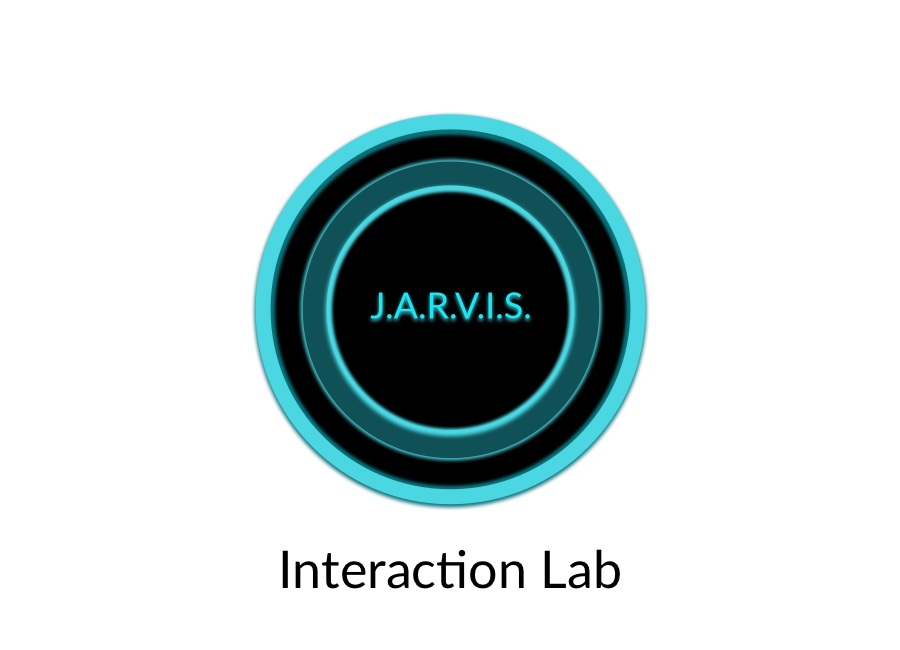
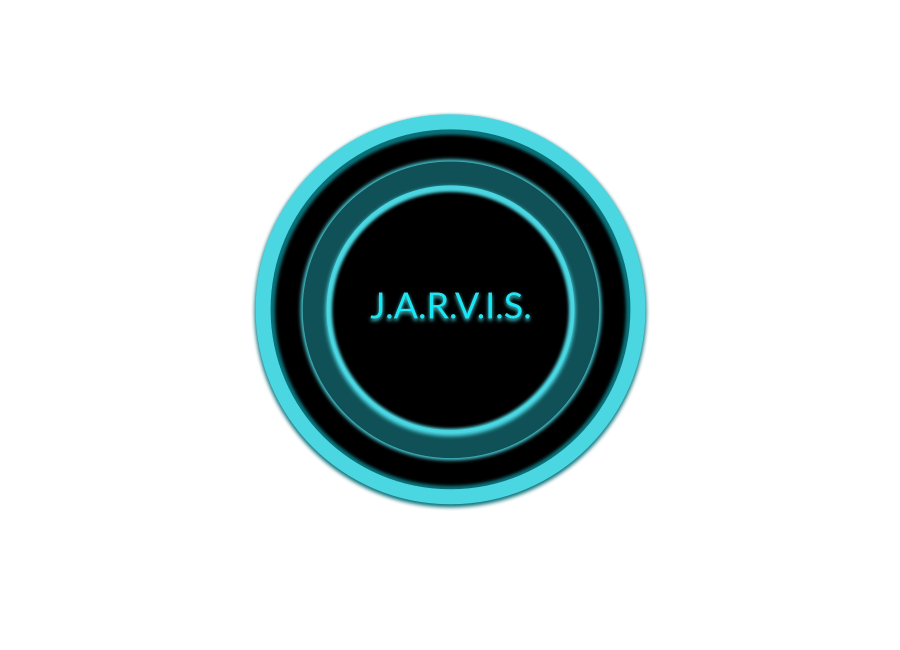
removing project titles

Changed region(s): [[0.3111, 0.8308, 0.7156, 0.9231]]

diff --git a/css/main.min.css b/css/main.min.css
@@ -1,5 +1,5 @@
 /*!
  * Start Bootstrap - Freelancer v3.3.7+1 (http://startbootstrap.com/template-overviews/freelancer)
- * Copyright 2013-2016 Start Bootstrap
+ * Copyright 2013-2017 Start Bootstrap
  * Licensed under MIT (https://github.com/BlackrockDigital/startbootstrap/blob/gh-pages/LICENSE)
- */.navbar-custom,.navbar-custom .navbar-nav li a:active,header{background:#fff}@font-face{font-family:Montserrat;font-style:normal;font-weight:400;src:local('Montserrat-Regular'),url(http://fonts.gstatic.com/s/montserrat/v7/zhcz-_WihjSQC0oHJ9TCYC3USBnSvpkopQaUR-2r7iU.ttf) format('truetype')}@font-face{font-family:Montserrat;font-style:normal;font-weight:700;src:local('Montserrat-Bold'),url(http://fonts.gstatic.com/s/montserrat/v7/IQHow_FEYlDC4Gzy_m8fcvEr6Hm6RMS0v1dtXsGir4g.ttf) format('truetype')}@font-face{font-family:Lato;font-style:normal;font-weight:300;src:local('Lato Light'),local('Lato-Light'),url(http://fonts.gstatic.com/s/lato/v11/nj47mAZe0mYUIySgfn0wpQ.ttf) format('truetype')}@font-face{font-family:Lato;font-style:normal;font-weight:400;src:local('Lato Regular'),local('Lato-Regular'),url(http://fonts.gstatic.com/s/lato/v11/v0SdcGFAl2aezM9Vq_aFTQ.ttf) format('truetype')}@font-face{font-family:Lato;font-style:normal;font-weight:700;src:local('Lato Bold'),local('Lato-Bold'),url(http://fonts.gstatic.com/s/lato/v11/DvlFBScY1r-FMtZSYIYoYw.ttf) format('truetype')}body{font-family:Lato,'Helvetica Neue',Helvetica,Arial,sans-serif;overflow-x:hidden;font-size:18px}.navbar-custom,.project-title,.section-title,header .intro-text .name{font-family:Lato,"Helvetica Neue",Helvetica,Arial,sans-serif}a,a.active,a:active,a:focus,a:hover{color:#fff;outline:0}.img-centered{margin:0 auto}header{text-align:center;color:#fff}.navbar-custom .navbar-brand,.navbar-custom .navbar-brand.active,.navbar-custom .navbar-brand:active,.navbar-custom .navbar-brand:focus,.navbar-custom .navbar-brand:hover,.navbar-custom .navbar-nav li a,.navbar-custom .navbar-nav li a:focus{color:#ff4c31}header .container{padding-top:100px;padding-bottom:50px}header img{display:block;margin:0 auto 20px}header .intro-text .name{display:block;text-transform:uppercase;font-weight:700;font-size:2em}header .intro-text .skills{font-size:1.25em;font-weight:300}@media (min-width:768px){header .container{padding-top:200px;padding-bottom:100px}header .intro-text .name{font-size:4.75em}header .intro-text .skills{font-size:1.75em}}nav{border-bottom:1px solid #777}.navbar-custom a:focus{outline:0}.navbar-custom .navbar-brand{font-size:2.25em;font-weight:300}.navbar-custom .navbar-nav{letter-spacing:1px}.navbar-custom .navbar-nav li a:hover{color:#ff4c31;outline:0}.navbar-custom .navbar-nav li.active a{color:#fff;background:#ff4c31;-webkit-border-radius:6px;-moz-border-radius:6px;border-radius:6px}.navbar-custom .navbar-nav li.active a:active,.navbar-custom .navbar-nav li.active a:focus,.navbar-custom .navbar-nav li.active a:hover{color:#fff;background:#ff4c31}.navbar-custom .navbar-toggle{color:#fff;font-size:10px;border-color:#fff}.navbar-custom .navbar-toggle:focus,.navbar-custom .navbar-toggle:hover{background-color:#fff;color:#fff;border-color:#fff}@media (min-width:768px){.navbar-custom{padding:25px 0;-webkit-transition:padding .3s;-moz-transition:padding .3s;transition:padding .3s}.navbar-custom .navbar-brand{font-size:2.25em;-webkit-transition:all .3s;-moz-transition:all .3s;transition:all .3s}.navbar-custom.affix{padding:10px 0}.navbar-custom.affix .navbar-brand{font-size:1.5em}}section#about{padding:100px 0}section{padding-bottom:50px}section.success{background:#fff;color:#fff}@media (max-width:767px){section{padding:75px 0}section.first{padding-top:75px}}#portfolio .portfolio-item{margin:0 0 15px;right:0}#portfolio .portfolio-item .portfolio-link{display:block;position:relative;max-width:400px;margin:0 auto}#portfolio .portfolio-item .portfolio-link .caption{background:rgba(255,76,49,.92);position:absolute;border-radius:6px;width:100%;height:100%;opacity:0;transition:all ease .5s;-webkit-transition:all ease .5s;-moz-transition:all ease .5s}#portfolio .portfolio-item .portfolio-link .caption:hover{opacity:1}#portfolio .portfolio-item .portfolio-link .caption .caption-content{position:absolute;width:100%;height:20px;font-size:20px;text-align:center;margin-top:-12px;color:#fff}.btn-social,.scroll-top,.scroll-top .btn{width:50px;height:50px}#portfolio .portfolio-item .portfolio-link .caption .caption-content i{margin-top:-12px}#portfolio .portfolio-item .portfolio-link .caption .caption-content h3,#portfolio .portfolio-item .portfolio-link .caption .caption-content h4{margin:0}#portfolio .portfolio-item .portfolio-link .caption .caption-content-1-line{top:50%}#portfolio .portfolio-item .portfolio-link .caption .caption-content-2-line{top:40%}#portfolio .portfolio-item .portfolio-link .caption .caption-content-3-line{top:30%}#portfolio *{z-index:2}@media (min-width:767px){#portfolio .portfolio-item{margin:0 0 30px}}footer{color:#ff4c31;border-top:1px solid #e7e7e7}footer h3{margin-bottom:30px}footer .footer-above{padding-top:50px}footer .footer-col{margin-bottom:50px}footer .footer-below{padding:25px 0}.btn-outline{color:#747274;font-size:20px;border:2px solid #fff;background:0 0;transition:all .3s ease-in-out;margin-top:15px}.btn-outline.active,.btn-outline:active,.btn-outline:focus,.btn-outline:hover{color:#fff;background:#ff4c31;border:2px solid #ff4c31}.btn-primary.active,.btn-primary:active,.btn-success.active,.btn-success:active,.open .dropdown-toggle.btn-primary,.open .dropdown-toggle.btn-success{background-image:none}.btn-primary{color:#fff;background-color:#fff;border-color:#fff;font-weight:700}.btn-primary.active,.btn-primary:active,.btn-primary:focus,.btn-primary:hover,.open .dropdown-toggle.btn-primary{color:#fff;background-color:#e6e6e6;border-color:#e0e0e0}.btn-primary.disabled,.btn-primary.disabled.active,.btn-primary.disabled:active,.btn-primary.disabled:focus,.btn-primary.disabled:hover,.btn-primary[disabled],.btn-primary[disabled].active,.btn-primary[disabled]:active,.btn-primary[disabled]:focus,.btn-primary[disabled]:hover,.btn-success,fieldset[disabled] .btn-primary,fieldset[disabled] .btn-primary.active,fieldset[disabled] .btn-primary:active,fieldset[disabled] .btn-primary:focus,fieldset[disabled] .btn-primary:hover{background-color:#fff;border-color:#fff}.btn-primary .badge{color:#fff;background-color:#fff}.btn-success{color:#fff;font-weight:700}.btn-success.active,.btn-success:active,.btn-success:focus,.btn-success:hover,.open .dropdown-toggle.btn-success{color:#fff;background-color:#e6e6e6;border-color:#e0e0e0}.btn-success .badge,.img-project,.parallax{background-color:#fff}.btn-success.disabled,.btn-success.disabled.active,.btn-success.disabled:active,.btn-success.disabled:focus,.btn-success.disabled:hover,.btn-success[disabled],.btn-success[disabled].active,.btn-success[disabled]:active,.btn-success[disabled]:focus,.btn-success[disabled]:hover,fieldset[disabled] .btn-success,fieldset[disabled] .btn-success.active,fieldset[disabled] .btn-success:active,fieldset[disabled] .btn-success:focus,fieldset[disabled] .btn-success:hover{background-color:#fff;border-color:#fff}.btn-success .badge{color:#fff}.btn-social{display:table-cell;border:2px solid #747274;border-radius:100%;text-align:center;font-size:20px;line-height:45px}.portfolio-modal .modal-content h3,.portfolio-modal .modal-content h4,.portfolio-modal .modal-content h5,.portfolio-modal .modal-content h6,.portfolio-modal .modal-content li,.portfolio-modal .modal-content p,.portfolio-modal .modal-content strong{text-align:left}.btn.active,.btn:active,.btn:focus{outline:0}.scroll-top{position:fixed;right:2%;bottom:2%;z-index:1049}.scroll-top .btn{font-size:20px;border-radius:100%;line-height:28px}.scroll-top .btn:focus{outline:0}.portfolio-modal .modal-content{border-radius:0;background-clip:border-box;-webkit-box-shadow:none;box-shadow:none;border:none;min-height:100%;padding:20px 0}.portfolio-modal .modal-content h2{margin:0;font-size:3em}.portfolio-modal .modal-content h3{font-size:28px}.navbar.center .navbar-inner,.project-stats,.project-title{text-align:center}.portfolio-modal .modal-content h5{font-size:20px}.portfolio-modal .modal-content img{margin-bottom:30px}.portfolio-modal .modal-content .modal-subsection{margin-top:.67em;margin-bottom:50px}.portfolio-modal .modal-content .item-details{margin:30px 0}.portfolio-modal .modal-backdrop{opacity:0;display:none}section h2{margin-bottom:20px}#about{margin-top:50px}.parallax{background-attachment:fixed;background-repeat:repeat}.img-project{border:1px solid #a1a0a1}.portfolio-title{margin-bottom:40px}div.modal-body h2,div.modal-body h3,div.modal-body h5{text-transform:none}.hide-bullets{list-style:none;margin-left:-40px;margin-top:20px}.list-questionnaire{background-color:#eee;padding:10px 25px}.section-title{color:#ff4c31;font-size:1.5em;font-weight:300;margin:.67em 0}.navbar-project-title a{color:#ff4c31}.navbar-project-title a.active,.navbar-project-title a:active,.navbar-project-title a:focus,.navbar-project-title a:hover{text-decoration:none;cursor:default;color:#ff4c31}#scenariosGallery,.back-button{cursor:pointer}#content{position:absolute;left:0;top:5px;right:0;margin-left:auto;margin-right:auto;padding-bottom:15px}@media (max-width:750px){.navbar-inner{height:100px}#content{position:absolute;left:0;top:55px;right:0;margin-left:auto;margin-right:auto;padding-bottom:15px}}@media (min-width:750px){.navbar-project-title a{margin-left:-158.2px;color:#ff4c31;padding:15px;line-height:20px}}.project-title{color:#ff4c31;font-size:2.25em;font-weight:300;display:block}.back-button a:hover,a:active,a:focus,a:hover{color:#ff4c31;cursor:pointer}.back-button{padding:15px;color:#ff4c31}.back-button active,.back-button:hover{color:#333;text-decoration:none}.navbar-project{padding:0}.img-in-section{width:90%;height:90%}.row-margin{margin:.67em 0}.hover{color:#ff4c31}.footer-text{color:#747274}.footer-title,.main-title{color:#ff4c31;font-weight:300}.navbar.center .navbar-inner .nav{display:inline-block;float:none}.video-container iframe{position:absolute;top:0;left:0;width:100%;height:100%}.video-container{position:relative;padding-bottom:56.25%;padding-top:35px;height:0;overflow:hidden}.img-border{border:1px solid #d3d3d3}.desc-row{border:1px solid #9d9d9d}.link{color:#000}
+ */.navbar-custom,.navbar-custom .navbar-nav li a:active,header{background:#fff}@font-face{font-family:Montserrat;font-style:normal;font-weight:400;src:local('Montserrat-Regular'),url(http://fonts.gstatic.com/s/montserrat/v7/zhcz-_WihjSQC0oHJ9TCYC3USBnSvpkopQaUR-2r7iU.ttf) format('truetype')}@font-face{font-family:Montserrat;font-style:normal;font-weight:700;src:local('Montserrat-Bold'),url(http://fonts.gstatic.com/s/montserrat/v7/IQHow_FEYlDC4Gzy_m8fcvEr6Hm6RMS0v1dtXsGir4g.ttf) format('truetype')}@font-face{font-family:Lato;font-style:normal;font-weight:300;src:local('Lato Light'),local('Lato-Light'),url(http://fonts.gstatic.com/s/lato/v11/nj47mAZe0mYUIySgfn0wpQ.ttf) format('truetype')}@font-face{font-family:Lato;font-style:normal;font-weight:400;src:local('Lato Regular'),local('Lato-Regular'),url(http://fonts.gstatic.com/s/lato/v11/v0SdcGFAl2aezM9Vq_aFTQ.ttf) format('truetype')}@font-face{font-family:Lato;font-style:normal;font-weight:700;src:local('Lato Bold'),local('Lato-Bold'),url(http://fonts.gstatic.com/s/lato/v11/DvlFBScY1r-FMtZSYIYoYw.ttf) format('truetype')}body{font-family:Lato,'Helvetica Neue',Helvetica,Arial,sans-serif;overflow-x:hidden;font-size:18px}.navbar-custom,.project-title,.section-title,header .intro-text .name{font-family:Lato,"Helvetica Neue",Helvetica,Arial,sans-serif}a,a.active,a:active,a:focus,a:hover{color:#fff;outline:0}.img-centered{margin:0 auto}header{text-align:center;color:#fff}.navbar-custom .navbar-brand,.navbar-custom .navbar-brand.active,.navbar-custom .navbar-brand:active,.navbar-custom .navbar-brand:focus,.navbar-custom .navbar-brand:hover,.navbar-custom .navbar-nav li a,.navbar-custom .navbar-nav li a:focus{color:#ff4c31}header .container{padding-top:100px;padding-bottom:50px}header img{display:block;margin:0 auto 20px}header .intro-text .name{display:block;text-transform:uppercase;font-weight:700;font-size:2em}header .intro-text .skills{font-size:1.25em;font-weight:300}@media (min-width:768px){header .container{padding-top:200px;padding-bottom:100px}header .intro-text .name{font-size:4.75em}header .intro-text .skills{font-size:1.75em}}nav{border-bottom:1px solid #777}.navbar-custom a:focus{outline:0}.navbar-custom .navbar-brand{font-size:2.25em;font-weight:300}.navbar-custom .navbar-nav{letter-spacing:1px}.navbar-custom .navbar-nav li a:hover{color:#ff4c31;outline:0}.navbar-custom .navbar-nav li.active a{color:#fff;background:#ff4c31;-webkit-border-radius:6px;-moz-border-radius:6px;border-radius:6px}.navbar-custom .navbar-nav li.active a:active,.navbar-custom .navbar-nav li.active a:focus,.navbar-custom .navbar-nav li.active a:hover{color:#fff;background:#ff4c31}.navbar-custom .navbar-toggle{color:#fff;font-size:10px;border-color:#fff}.navbar-custom .navbar-toggle:focus,.navbar-custom .navbar-toggle:hover{background-color:#fff;color:#fff;border-color:#fff}@media (min-width:768px){.navbar-custom{padding:25px 0;-webkit-transition:padding .3s;-moz-transition:padding .3s;transition:padding .3s}.navbar-custom .navbar-brand{font-size:2.25em;-webkit-transition:all .3s;-moz-transition:all .3s;transition:all .3s}.navbar-custom.affix{padding:10px 0}.navbar-custom.affix .navbar-brand{font-size:1.5em}}section#about{padding:100px 0}section{padding-bottom:50px}section.success{background:#fff;color:#fff}@media (max-width:767px){section{padding:75px 0}section.first{padding-top:75px}}#portfolio .portfolio-item{margin:0 0 15px;right:0}#portfolio .portfolio-item .portfolio-link .caption .caption-content h3,footer h3{margin-bottom:30px}#portfolio .portfolio-item .portfolio-link{display:block;position:relative;max-width:400px}#portfolio .portfolio-item .portfolio-link .caption{background:rgba(255,76,49,.92);position:absolute;border-radius:6px;width:100%;height:100%;opacity:0;transition:all ease .5s;-webkit-transition:all ease .5s;-moz-transition:all ease .5s}#portfolio .portfolio-item .portfolio-link .caption:hover{opacity:1}#portfolio .portfolio-item .portfolio-link .caption .caption-content{position:absolute;width:100%;height:20px;font-size:20px;text-align:center;margin-top:-12px;color:#fff}.btn-social,.scroll-top,.scroll-top .btn{width:50px;height:50px}#portfolio .portfolio-item .portfolio-link .caption .caption-content i{margin-top:-12px}#portfolio .portfolio-item .portfolio-link .caption .caption-content p{font-weight:300}#portfolio .portfolio-item .portfolio-link .caption .caption-content-1-line{top:50%}#portfolio .portfolio-item .portfolio-link .caption .caption-content-2-line{top:40%}#portfolio .portfolio-item .portfolio-link .caption .caption-content-3-line{top:30%}#portfolio *{z-index:2}footer{color:#ff4c31;border-top:1px solid #e7e7e7}footer .footer-above{padding-top:50px}footer .footer-col{margin-bottom:50px}footer .footer-below{padding:25px 0}.btn-outline{color:#747274;font-size:20px;border:2px solid #fff;background:0 0;transition:all .3s ease-in-out;margin-top:15px}.btn-outline.active,.btn-outline:active,.btn-outline:focus,.btn-outline:hover{color:#fff;background:#ff4c31;border:2px solid #ff4c31}.btn-primary.active,.btn-primary:active,.btn-success.active,.btn-success:active,.open .dropdown-toggle.btn-primary,.open .dropdown-toggle.btn-success{background-image:none}.btn-primary{color:#fff;background-color:#fff;border-color:#fff;font-weight:700}.btn-primary.active,.btn-primary:active,.btn-primary:focus,.btn-primary:hover,.open .dropdown-toggle.btn-primary{color:#fff;background-color:#e6e6e6;border-color:#e0e0e0}.btn-primary.disabled,.btn-primary.disabled.active,.btn-primary.disabled:active,.btn-primary.disabled:focus,.btn-primary.disabled:hover,.btn-primary[disabled],.btn-primary[disabled].active,.btn-primary[disabled]:active,.btn-primary[disabled]:focus,.btn-primary[disabled]:hover,.btn-success,fieldset[disabled] .btn-primary,fieldset[disabled] .btn-primary.active,fieldset[disabled] .btn-primary:active,fieldset[disabled] .btn-primary:focus,fieldset[disabled] .btn-primary:hover{background-color:#fff;border-color:#fff}.btn-primary .badge{color:#fff;background-color:#fff}.btn-success{color:#fff;font-weight:700}.btn-success.active,.btn-success:active,.btn-success:focus,.btn-success:hover,.open .dropdown-toggle.btn-success{color:#fff;background-color:#e6e6e6;border-color:#e0e0e0}.btn-success .badge,.img-project,.parallax{background-color:#fff}.btn-success.disabled,.btn-success.disabled.active,.btn-success.disabled:active,.btn-success.disabled:focus,.btn-success.disabled:hover,.btn-success[disabled],.btn-success[disabled].active,.btn-success[disabled]:active,.btn-success[disabled]:focus,.btn-success[disabled]:hover,fieldset[disabled] .btn-success,fieldset[disabled] .btn-success.active,fieldset[disabled] .btn-success:active,fieldset[disabled] .btn-success:focus,fieldset[disabled] .btn-success:hover{background-color:#fff;border-color:#fff}.btn-success .badge{color:#fff}.btn-social{display:table-cell;border:2px solid #747274;border-radius:100%;text-align:center;font-size:20px;line-height:45px}.portfolio-modal .modal-content h3,.portfolio-modal .modal-content h4,.portfolio-modal .modal-content h5,.portfolio-modal .modal-content h6,.portfolio-modal .modal-content li,.portfolio-modal .modal-content p,.portfolio-modal .modal-content strong{text-align:left}.btn.active,.btn:active,.btn:focus{outline:0}.scroll-top{position:fixed;right:2%;bottom:2%;z-index:1049}.scroll-top .btn{font-size:20px;border-radius:100%;line-height:28px}.scroll-top .btn:focus{outline:0}.portfolio-modal .modal-content{border-radius:0;background-clip:border-box;-webkit-box-shadow:none;box-shadow:none;border:none;min-height:100%;padding:20px 0}.portfolio-modal .modal-content h2{margin:0;font-size:3em}.portfolio-modal .modal-content h3{font-size:28px}.navbar.center .navbar-inner,.project-stats,.project-title{text-align:center}.portfolio-modal .modal-content h5{font-size:20px}.portfolio-modal .modal-content img{margin-bottom:30px}.portfolio-modal .modal-content .modal-subsection{margin-top:.67em;margin-bottom:50px}.portfolio-modal .modal-content .item-details{margin:30px 0}.portfolio-modal .modal-backdrop{opacity:0;display:none}section h2{margin-bottom:20px}#about{margin-top:50px}.parallax{background-attachment:fixed;background-repeat:repeat}.img-project{border:1px solid #a1a0a1}.portfolio-title{margin-bottom:40px}div.modal-body h2,div.modal-body h3,div.modal-body h5{text-transform:none}.hide-bullets{list-style:none;margin-left:-40px;margin-top:20px}.list-questionnaire{background-color:#eee;padding:10px 25px}.section-title{color:#ff4c31;font-size:1.5em;font-weight:300;margin:.67em 0}.navbar-project-title a{color:#ff4c31}.navbar-project-title a.active,.navbar-project-title a:active,.navbar-project-title a:focus,.navbar-project-title a:hover{text-decoration:none;cursor:default;color:#ff4c31}#scenariosGallery,.back-button{cursor:pointer}#content{position:absolute;left:0;top:5px;right:0;margin-left:auto;margin-right:auto;padding-bottom:15px}@media (max-width:750px){.navbar-inner{height:100px}#content{position:absolute;left:0;top:55px;right:0;margin-left:auto;margin-right:auto;padding-bottom:15px}}@media (min-width:750px){.navbar-project-title a{margin-left:-158.2px;color:#ff4c31;padding:15px;line-height:20px}}.project-title{color:#ff4c31;font-size:2.25em;font-weight:300;display:block}.back-button a:hover,a:active,a:focus,a:hover{color:#ff4c31;cursor:pointer}.back-button{padding:15px;color:#ff4c31}.back-button active,.back-button:hover{color:#333;text-decoration:none}.navbar-project{padding:0}.img-in-section{width:90%;height:90%}.row-margin{margin:.67em 0}.hover{color:#ff4c31}.footer-text{color:#747274}.footer-title,.main-title{color:#ff4c31;font-weight:300}.navbar.center .navbar-inner .nav{display:inline-block;float:none}.video-container iframe{position:absolute;top:0;left:0;width:100%;height:100%}.video-container{position:relative;padding-bottom:56.25%;padding-top:35px;height:0;overflow:hidden}.img-border{border:1px solid #d3d3d3}.desc-row{border:1px solid #9d9d9d}.link{color:#000}

diff --git a/index.html b/index.html
@@ -86,8 +86,8 @@
                     <a href="html/vehicle-sharing.html" class="portfolio-link">
                         <div class="caption">
                             <div class="caption-content caption-content-3-line">
+                                <h3>Vehicle and Service Sharing</h3>
                                 <p>UX Researcher</p>
-                                <p>UX Designer</p>
                                 <p>Web Developer</p>
                             </div>
                         </div>
@@ -97,7 +97,8 @@
                 <div class="col-sm-4 portfolio-item">
                     <a href="html/course-wiz.html" class="portfolio-link" data-toggle="modal">
                         <div class="caption">
-                            <div class="caption-content caption-content-2-line">
+                            <div class="caption-content caption-content-3-line">
+                                <h3>Course Wiz</h3>
                                 <p>UX Researcher</p>
                                 <p>UX Designer</p>
                             </div>
@@ -108,7 +109,8 @@
                 <div class="col-sm-4 portfolio-item">
                     <a href="html/iorios.html" class="portfolio-link">
                         <div class="caption">
-                            <div class="caption-content caption-content-1-line">
+                            <div class="caption-content caption-content-3-line">
+                                <h3>Iorio&apos;s Gelateria</h3>
                                 <p>UX Research Consultant</p>
                             </div>
                         </div>
@@ -123,7 +125,8 @@
                 <div class="col-sm-4 portfolio-item">
                     <a href="html/mi2lab.html" class="portfolio-link">
                         <div class="caption">
-                            <div class="caption-content caption-content-2-line">
+                            <div class="caption-content caption-content-3-line">
+                                <h3>Jarvis</h3>
                                 <p>UX Researcher</p>
                                 <p>Web Developer</p>
                             </div>
@@ -135,6 +138,7 @@
                     <a href="html/scAIRed.html" class="portfolio-link">
                         <div class="caption">
                             <div class="caption-content caption-content-3-line">
+                                <h3>scAIRed</h3>
                                 <p>UX Designer</p>
                                 <p>Game Designer</p>
                                 <p>iOS Developer</p>
@@ -146,7 +150,8 @@
                 <div class="col-sm-4 portfolio-item">
                     <a href="html/umhr.html" class="portfolio-link">
                         <div class="caption">
-                            <div class="caption-content caption-content-1-line">
+                            <div class="caption-content caption-content-3-line">
+                                <h3>UMHealthResearch.org</h3>
                                 <p>Full Stack Developer</p>
                             </div>
                         </div>

diff --git a/css/main.css b/css/main.css
@@ -1,6 +1,6 @@
 /*!
  * Start Bootstrap - Freelancer v3.3.7+1 (http://startbootstrap.com/template-overviews/freelancer)
- * Copyright 2013-2016 Start Bootstrap
+ * Copyright 2013-2017 Start Bootstrap
  * Licensed under MIT (https://github.com/BlackrockDigital/startbootstrap/blob/gh-pages/LICENSE)
  */
 @import url(http://fonts.googleapis.com/css?family=Montserrat:200,300,400,700);
@@ -164,7 +164,6 @@ section.success {
   display: block;
   position: relative;
   max-width: 400px;
-  margin: 0 auto;
 }
 #portfolio .portfolio-item .portfolio-link .caption {
   background: rgba(255, 76, 49, 0.92);
@@ -192,9 +191,11 @@ section.success {
 #portfolio .portfolio-item .portfolio-link .caption .caption-content i {
   margin-top: -12px;
 }
-#portfolio .portfolio-item .portfolio-link .caption .caption-content h3,
-#portfolio .portfolio-item .portfolio-link .caption .caption-content h4 {
-  margin: 0;
+#portfolio .portfolio-item .portfolio-link .caption .caption-content h3 {
+  margin-bottom: 30px;
+}
+#portfolio .portfolio-item .portfolio-link .caption .caption-content p {
+  font-weight: 300;
 }
 #portfolio .portfolio-item .portfolio-link .caption .caption-content-1-line {
   top: 50%;
@@ -207,11 +208,6 @@ section.success {
 }
 #portfolio * {
   z-index: 2;
-}
-@media (min-width: 767px) {
-  #portfolio .portfolio-item {
-    margin: 0 0 30px;
-  }
 }
 footer {
   color: #ff4c31;

diff --git a/less/main.less b/less/main.less
@@ -192,7 +192,7 @@ section.success {
             display: block;
             position: relative;
             max-width: 400px;
-            margin: 0 auto;
+            //margin: 0 auto;
             .caption {
                 background: fade(@theme-hover, 92%);
                 position: absolute;
@@ -217,11 +217,15 @@ section.success {
                     i {
                         margin-top: -12px;
                     }
-                    h3,
-                    h4 {
-                        margin: 0;
-                    }
+
+					h3 {
+						margin-bottom: 30px;
+					}
+					p {
+						font-weight:300;
+					}
                 }
+
               .caption-content-1-line {
                 top: 50%;
               }
@@ -242,7 +246,7 @@ section.success {
 @media(min-width:767px) {
     #portfolio {
         .portfolio-item {
-            margin: 0 0 30px;
+            //margin: 0 0 30px;
         }
     }
 }
